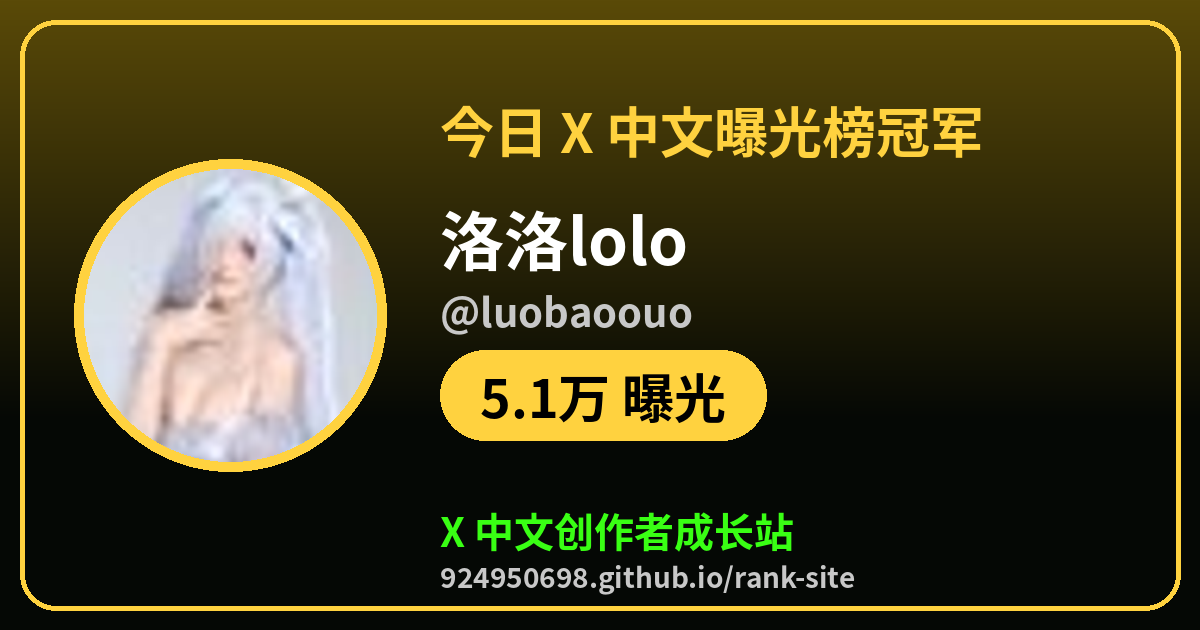
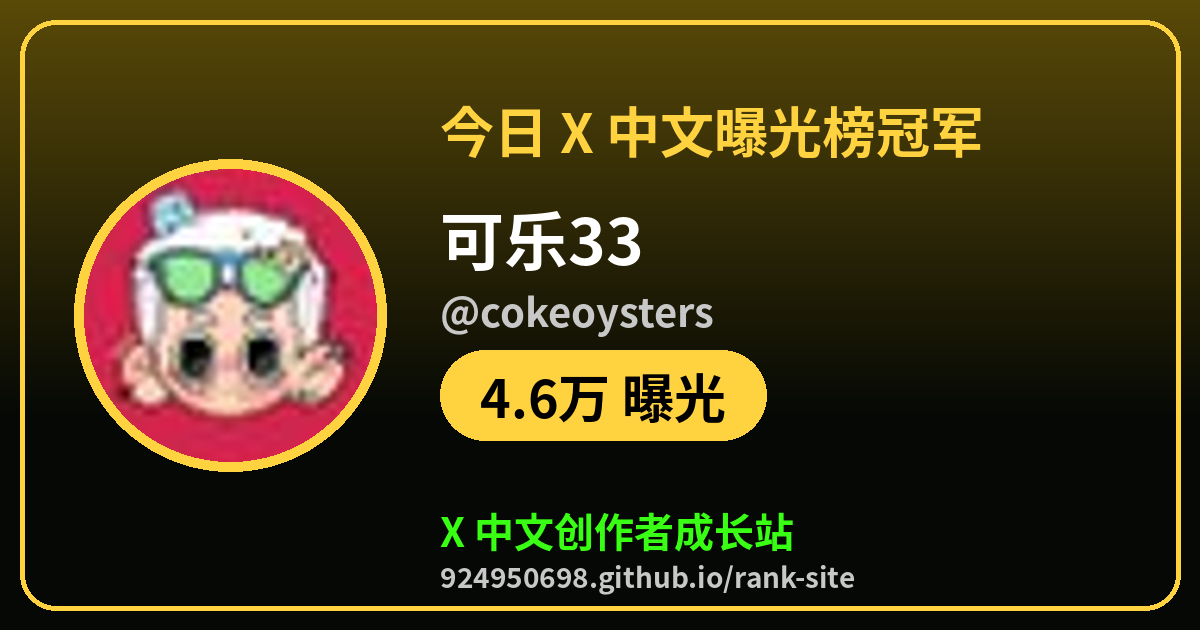
champ: 2026-10-17 12:27 CST

Changed region(s): [[0.0617, 0.2714, 0.3392, 0.754], [0.37, 0.3317, 0.6167, 0.5429], [0.4008, 0.6032, 0.4625, 0.6635]]

diff --git a/champ/exposure.html b/champ/exposure.html
@@ -1,7 +1,7 @@
 <!doctype html><html lang="zh-CN"><head><meta charset="utf-8"><meta name="viewport" content="width=device-width,initial-scale=1">
-<title>今日 X 中文曝光榜冠军：洛洛🎀lolo（@luobaoouo）</title><meta name="description" content="5.1万 曝光，来看看今天谁在爆，你排第几">
-<meta property="og:type" content="website"><meta property="og:url" content="https://924950698.github.io/rank-site/champ/exposure.html"><meta property="og:title" content="今日 X 中文曝光榜冠军：洛洛🎀lolo（@luobaoouo）"><meta property="og:description" content="5.1万 曝光，来看看今天谁在爆，你排第几">
-<meta property="og:image" content="https://924950698.github.io/rank-site/champ/exposure.png?v=20261017T0311"><meta name="twitter:card" content="summary_large_image"><meta name="twitter:site" content="@tigerr3aue">
-<meta name="twitter:title" content="今日 X 中文曝光榜冠军：洛洛🎀lolo（@luobaoouo）"><meta name="twitter:description" content="5.1万 曝光，来看看今天谁在爆，你排第几"><meta name="twitter:image" content="https://924950698.github.io/rank-site/champ/exposure.png?v=20261017T0311">
-<meta http-equiv="refresh" content="0;url=https://924950698.github.io/rank-site/?champ=luobaoouo&amp;board=exposure#rank"><script>location.replace("https://924950698.github.io/rank-site/?champ=luobaoouo&board=exposure#rank")</script></head>
-<body style="background:#000;color:#fff;font-family:sans-serif;text-align:center;padding:40px"><a href="https://924950698.github.io/rank-site/?champ=luobaoouo&amp;board=exposure#rank" style="color:#39ff14">去 X 中文创作者成长站看冠军卡片</a></body></html>
+<title>今日 X 中文曝光榜冠军：可乐33（@cokeoysters）</title><meta name="description" content="4.6万 曝光，来看看今天谁在爆，你排第几">
+<meta property="og:type" content="website"><meta property="og:url" content="https://924950698.github.io/rank-site/champ/exposure.html"><meta property="og:title" content="今日 X 中文曝光榜冠军：可乐33（@cokeoysters）"><meta property="og:description" content="4.6万 曝光，来看看今天谁在爆，你排第几">
+<meta property="og:image" content="https://924950698.github.io/rank-site/champ/exposure.png?v=20261017T0411"><meta name="twitter:card" content="summary_large_image"><meta name="twitter:site" content="@tigerr3aue">
+<meta name="twitter:title" content="今日 X 中文曝光榜冠军：可乐33（@cokeoysters）"><meta name="twitter:description" content="4.6万 曝光，来看看今天谁在爆，你排第几"><meta name="twitter:image" content="https://924950698.github.io/rank-site/champ/exposure.png?v=20261017T0411">
+<meta http-equiv="refresh" content="0;url=https://924950698.github.io/rank-site/?champ=cokeoysters&amp;board=exposure#rank"><script>location.replace("https://924950698.github.io/rank-site/?champ=cokeoysters&board=exposure#rank")</script></head>
+<body style="background:#000;color:#fff;font-family:sans-serif;text-align:center;padding:40px"><a href="https://924950698.github.io/rank-site/?champ=cokeoysters&amp;board=exposure#rank" style="color:#39ff14">去 X 中文创作者成长站看冠军卡片</a></body></html>

diff --git a/champ/growth.html b/champ/growth.html
@@ -1,7 +1,7 @@
 <!doctype html><html lang="zh-CN"><head><meta charset="utf-8"><meta name="viewport" content="width=device-width,initial-scale=1">
-<title>今日 X 中文涨粉榜冠军：内涵段子（@hacken2006）</title><meta name="description" content="+561 粉，来看看今天谁在爆，你排第几">
-<meta property="og:type" content="website"><meta property="og:url" content="https://924950698.github.io/rank-site/champ/growth.html"><meta property="og:title" content="今日 X 中文涨粉榜冠军：内涵段子（@hacken2006）"><meta property="og:description" content="+561 粉，来看看今天谁在爆，你排第几">
-<meta property="og:image" content="https://924950698.github.io/rank-site/champ/growth.png?v=20261017T0311"><meta name="twitter:card" content="summary_large_image"><meta name="twitter:site" content="@tigerr3aue">
-<meta name="twitter:title" content="今日 X 中文涨粉榜冠军：内涵段子（@hacken2006）"><meta name="twitter:description" content="+561 粉，来看看今天谁在爆，你排第几"><meta name="twitter:image" content="https://924950698.github.io/rank-site/champ/growth.png?v=20261017T0311">
+<title>今日 X 中文涨粉榜冠军：内涵段子（@hacken2006）</title><meta name="description" content="+571 粉，来看看今天谁在爆，你排第几">
+<meta property="og:type" content="website"><meta property="og:url" content="https://924950698.github.io/rank-site/champ/growth.html"><meta property="og:title" content="今日 X 中文涨粉榜冠军：内涵段子（@hacken2006）"><meta property="og:description" content="+571 粉，来看看今天谁在爆，你排第几">
+<meta property="og:image" content="https://924950698.github.io/rank-site/champ/growth.png?v=20261017T0411"><meta name="twitter:card" content="summary_large_image"><meta name="twitter:site" content="@tigerr3aue">
+<meta name="twitter:title" content="今日 X 中文涨粉榜冠军：内涵段子（@hacken2006）"><meta name="twitter:description" content="+571 粉，来看看今天谁在爆，你排第几"><meta name="twitter:image" content="https://924950698.github.io/rank-site/champ/growth.png?v=20261017T0411">
 <meta http-equiv="refresh" content="0;url=https://924950698.github.io/rank-site/?champ=hacken2006&amp;board=growth#rank"><script>location.replace("https://924950698.github.io/rank-site/?champ=hacken2006&board=growth#rank")</script></head>
 <body style="background:#000;color:#fff;font-family:sans-serif;text-align:center;padding:40px"><a href="https://924950698.github.io/rank-site/?champ=hacken2006&amp;board=growth#rank" style="color:#39ff14">去 X 中文创作者成长站看冠军卡片</a></body></html>

diff --git a/champ/comments.html b/champ/comments.html
@@ -1,7 +1,7 @@
 <!doctype html><html lang="zh-CN"><head><meta charset="utf-8"><meta name="viewport" content="width=device-width,initial-scale=1">
 <title>今日 X 中文评论榜冠军：Deribit華語（@DeribitCN）</title><meta name="description" content="167 评论，来看看今天谁在爆，你排第几">
 <meta property="og:type" content="website"><meta property="og:url" content="https://924950698.github.io/rank-site/champ/comments.html"><meta property="og:title" content="今日 X 中文评论榜冠军：Deribit華語（@DeribitCN）"><meta property="og:description" content="167 评论，来看看今天谁在爆，你排第几">
-<meta property="og:image" content="https://924950698.github.io/rank-site/champ/comments.png?v=20261017T0311"><meta name="twitter:card" content="summary_large_image"><meta name="twitter:site" content="@tigerr3aue">
-<meta name="twitter:title" content="今日 X 中文评论榜冠军：Deribit華語（@DeribitCN）"><meta name="twitter:description" content="167 评论，来看看今天谁在爆，你排第几"><meta name="twitter:image" content="https://924950698.github.io/rank-site/champ/comments.png?v=20261017T0311">
+<meta property="og:image" content="https://924950698.github.io/rank-site/champ/comments.png?v=20261017T0411"><meta name="twitter:card" content="summary_large_image"><meta name="twitter:site" content="@tigerr3aue">
+<meta name="twitter:title" content="今日 X 中文评论榜冠军：Deribit華語（@DeribitCN）"><meta name="twitter:description" content="167 评论，来看看今天谁在爆，你排第几"><meta name="twitter:image" content="https://924950698.github.io/rank-site/champ/comments.png?v=20261017T0411">
 <meta http-equiv="refresh" content="0;url=https://924950698.github.io/rank-site/?champ=DeribitCN&amp;board=comments#rank"><script>location.replace("https://924950698.github.io/rank-site/?champ=DeribitCN&board=comments#rank")</script></head>
 <body style="background:#000;color:#fff;font-family:sans-serif;text-align:center;padding:40px"><a href="https://924950698.github.io/rank-site/?champ=DeribitCN&amp;board=comments#rank" style="color:#39ff14">去 X 中文创作者成长站看冠军卡片</a></body></html>

diff --git a/champ/rising.html b/champ/rising.html
@@ -1,7 +1,7 @@
 <!doctype html><html lang="zh-CN"><head><meta charset="utf-8"><meta name="viewport" content="width=device-width,initial-scale=1">
 <title>今日 X 中文新号进步榜冠军：Ethan_X（@Rethan375）</title><meta name="description" content="+301 粉，来看看今天谁在爆，你排第几">
 <meta property="og:type" content="website"><meta property="og:url" content="https://924950698.github.io/rank-site/champ/rising.html"><meta property="og:title" content="今日 X 中文新号进步榜冠军：Ethan_X（@Rethan375）"><meta property="og:description" content="+301 粉，来看看今天谁在爆，你排第几">
-<meta property="og:image" content="https://924950698.github.io/rank-site/champ/rising.png?v=20261017T0311"><meta name="twitter:card" content="summary_large_image"><meta name="twitter:site" content="@tigerr3aue">
-<meta name="twitter:title" content="今日 X 中文新号进步榜冠军：Ethan_X（@Rethan375）"><meta name="twitter:description" content="+301 粉，来看看今天谁在爆，你排第几"><meta name="twitter:image" content="https://924950698.github.io/rank-site/champ/rising.png?v=20261017T0311">
+<meta property="og:image" content="https://924950698.github.io/rank-site/champ/rising.png?v=20261017T0411"><meta name="twitter:card" content="summary_large_image"><meta name="twitter:site" content="@tigerr3aue">
+<meta name="twitter:title" content="今日 X 中文新号进步榜冠军：Ethan_X（@Rethan375）"><meta name="twitter:description" content="+301 粉，来看看今天谁在爆，你排第几"><meta name="twitter:image" content="https://924950698.github.io/rank-site/champ/rising.png?v=20261017T0411">
 <meta http-equiv="refresh" content="0;url=https://924950698.github.io/rank-site/?champ=Rethan375&amp;board=rising#rank"><script>location.replace("https://924950698.github.io/rank-site/?champ=Rethan375&board=rising#rank")</script></head>
 <body style="background:#000;color:#fff;font-family:sans-serif;text-align:center;padding:40px"><a href="https://924950698.github.io/rank-site/?champ=Rethan375&amp;board=rising#rank" style="color:#39ff14">去 X 中文创作者成长站看冠军卡片</a></body></html>
